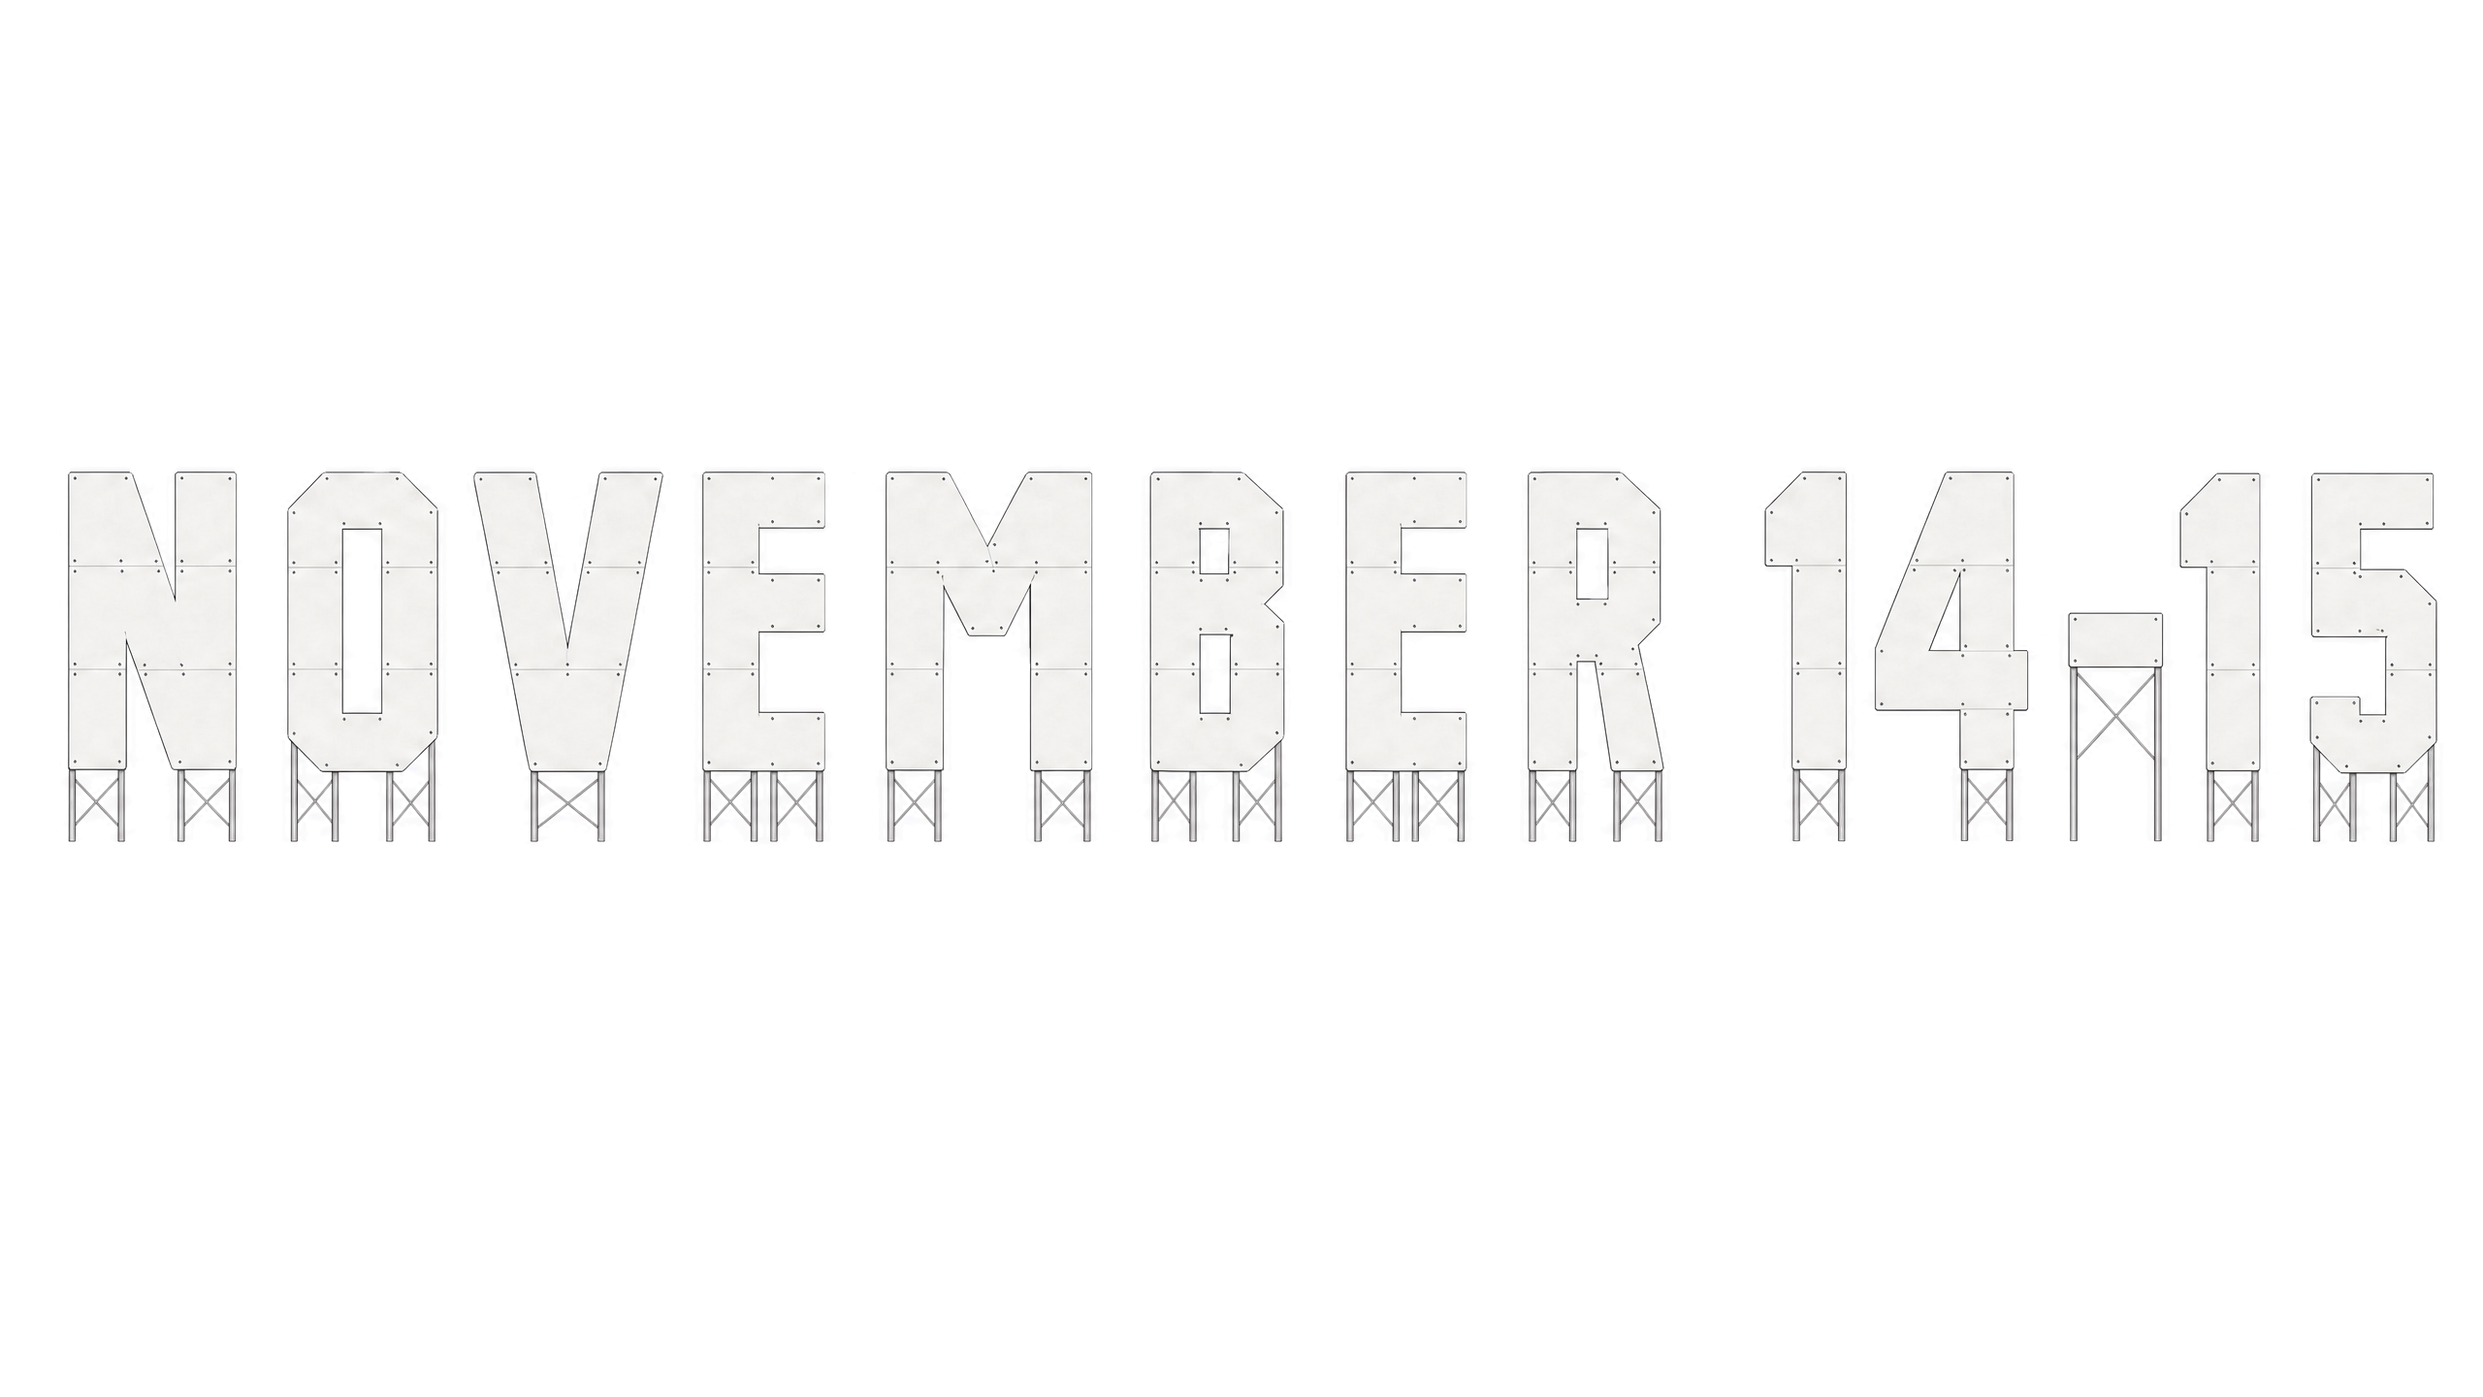
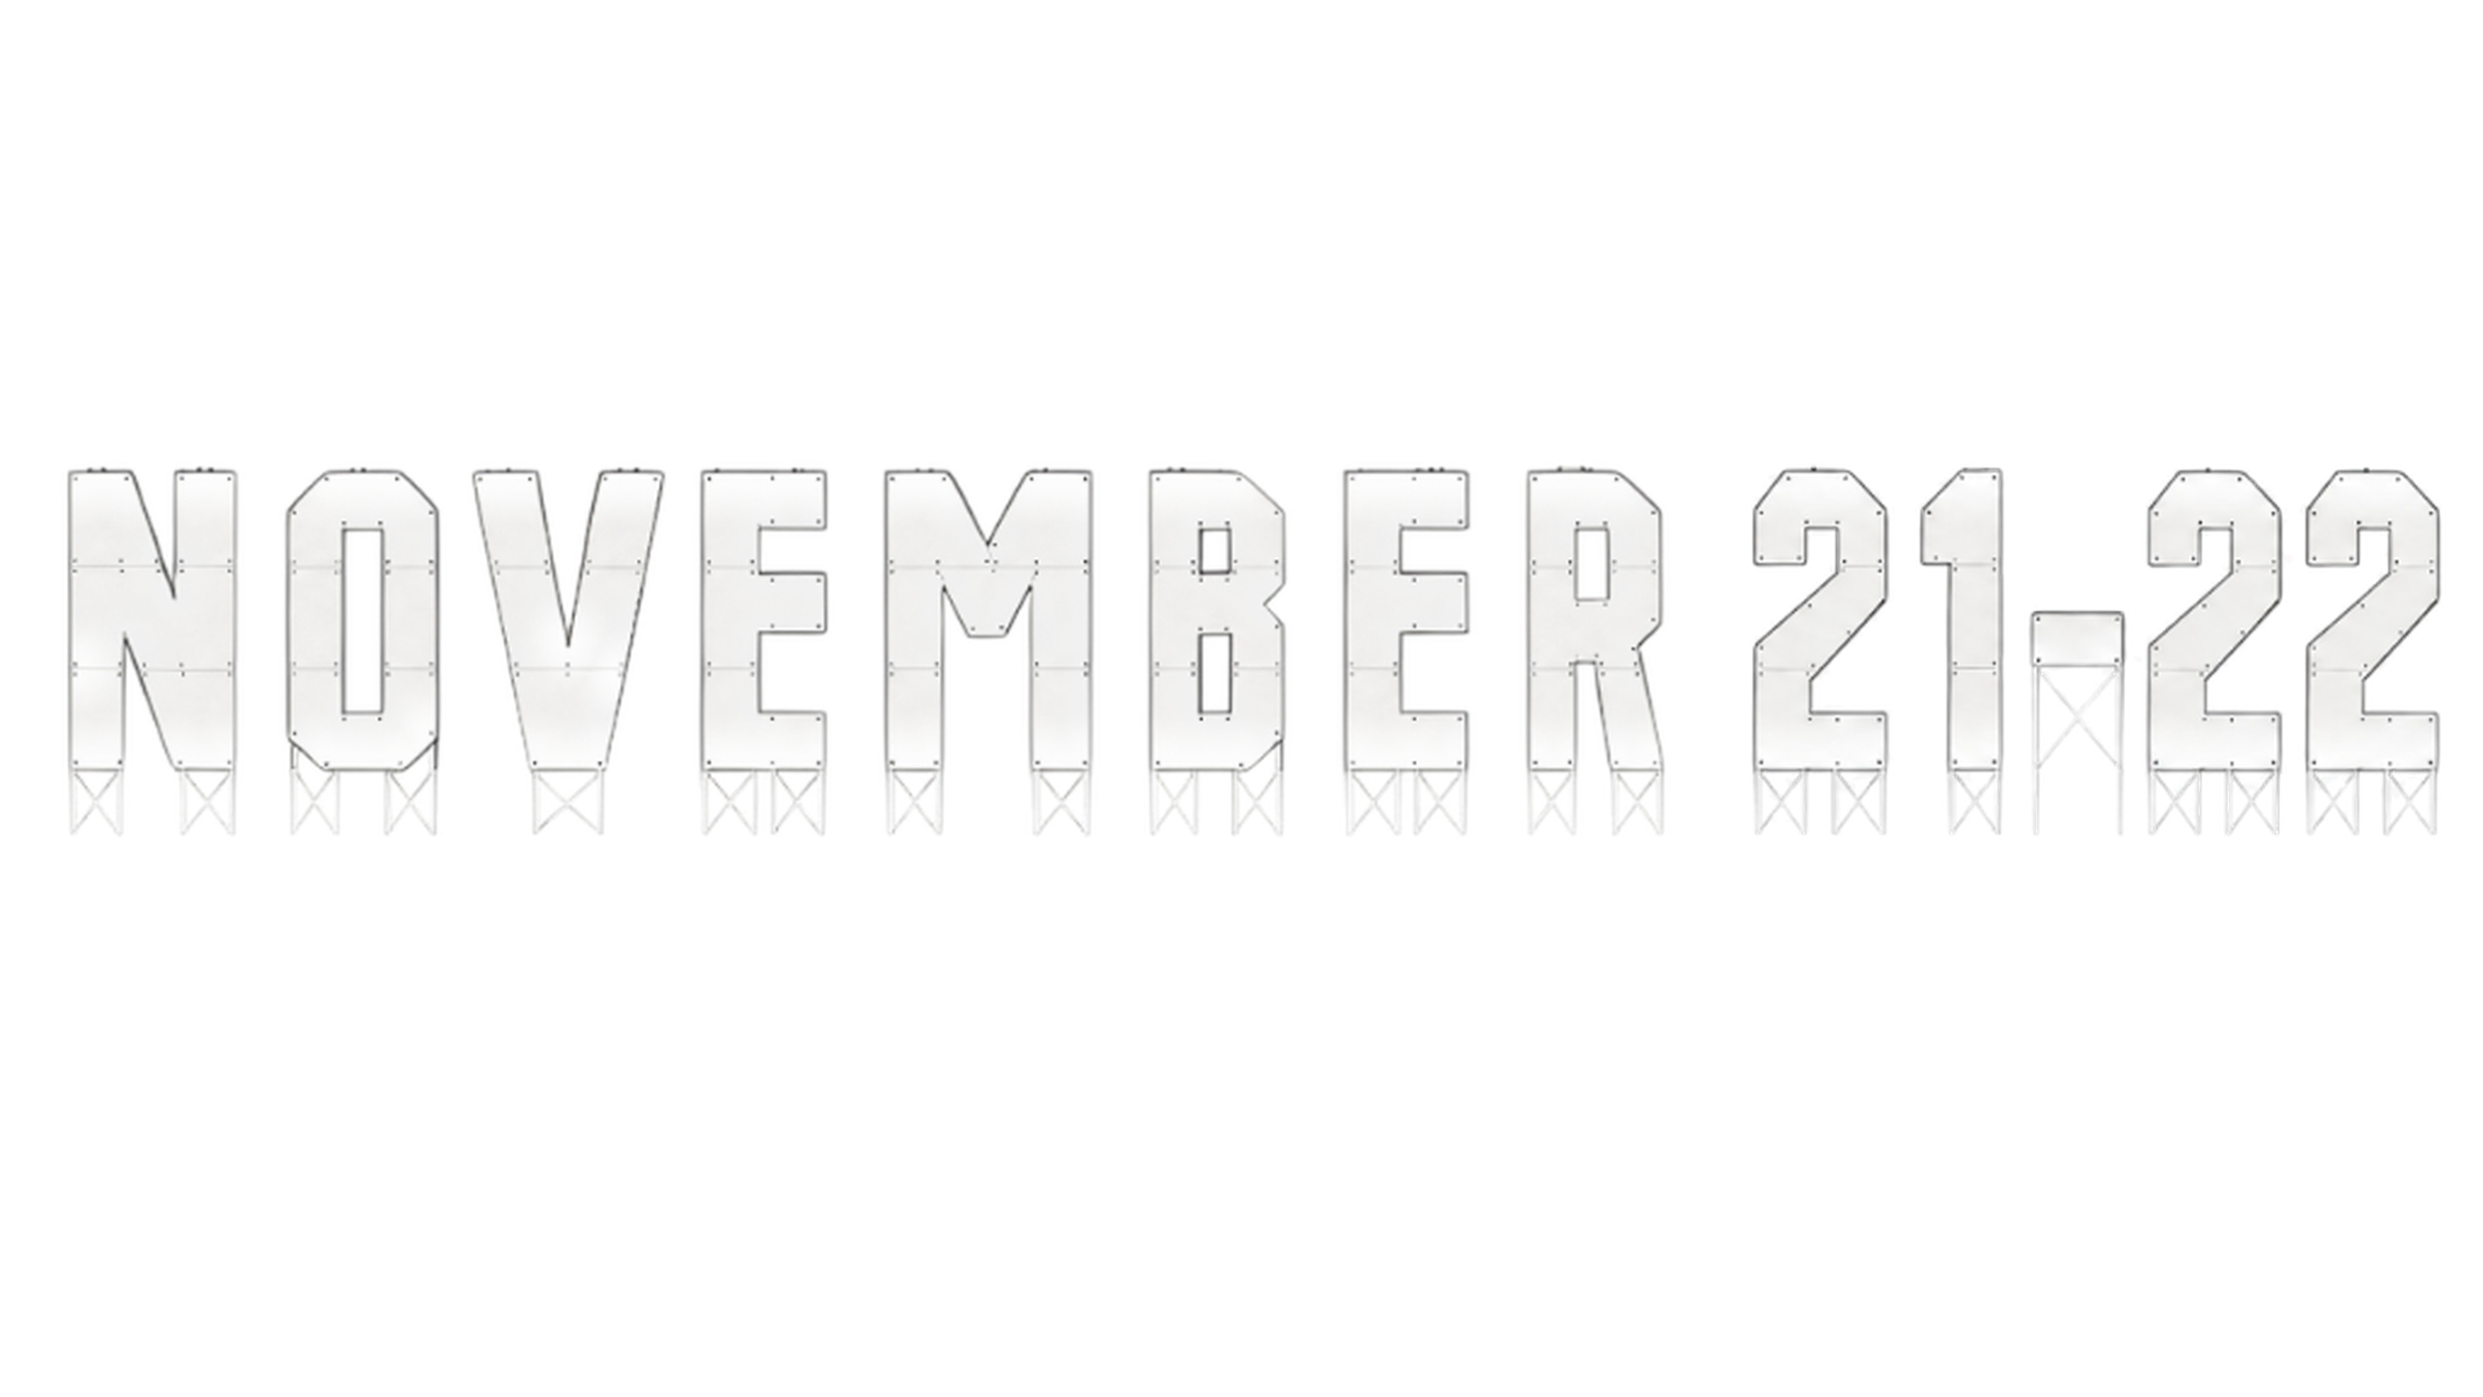
feat: reschedule event to Nov 21-22, update date sign, and add new sponsors

diff --git a/src/app/sponsor/page.tsx b/src/app/sponsor/page.tsx
@@ -25,6 +25,9 @@ const AWS_LOGO = "/aws-white.svg";
 const GOOGLE_LOGO = "/google.svg";
 const BOOTDEV_LOGO = "/bootdev.png";
 const ELEVENLABS_LOGO = "/elevenlabs-logo-white.png";
+const CELSIUS_LOGO = "/celsius.svg";
+const LOVABLE_LOGO = "/lovable.svg";
+const PCBWAY_LOGO = "/pcbway.svg";
 
 const ROADTRIP_SPONSORS = [
   {
@@ -52,6 +55,27 @@ const ROADTRIP_SPONSORS = [
     name: "ElevenLabs",
     src: ELEVENLABS_LOGO,
     width: 240,
+    height: 60,
+    className: "max-h-9 sm:max-h-12 w-auto",
+  },
+  {
+    name: "Celsius",
+    src: CELSIUS_LOGO,
+    width: 220,
+    height: 75,
+    className: "max-h-10 sm:max-h-14 w-auto",
+  },
+  {
+    name: "Lovable",
+    src: LOVABLE_LOGO,
+    width: 220,
+    height: 40,
+    className: "max-h-8 sm:max-h-11 w-auto",
+  },
+  {
+    name: "PCBWay",
+    src: PCBWAY_LOGO,
+    width: 220,
     height: 60,
     className: "max-h-9 sm:max-h-12 w-auto",
   },
@@ -114,7 +138,7 @@ const SPONSOR_BENEFITS = [
 const FAQS = [
   {
     q: "Where and when is HackCC 2026 taking place?",
-    a: "HackCC 2026 takes place on November 14–15, 2026 at Orange Coast College (OCC) in Costa Mesa, California! It is a two-day, non-overnight hackathon running during the daytime on Saturday and Sunday, allowing sponsors, mentors, and hackers to return refreshed for day two judging and final ceremonies.",
+    a: "HackCC 2026 takes place on November 21–22, 2026 at Orange Coast College (OCC) in Costa Mesa, California! It is a two-day, non-overnight hackathon running during the daytime on Saturday and Sunday, allowing sponsors, mentors, and hackers to return refreshed for day two judging and final ceremonies.",
   },
   {
     q: "Why sponsor HackCC instead of a four-year university hackathon?",
@@ -246,13 +270,13 @@ export default function SponsorPage() {
           <div className="mt-5 inline-flex flex-wrap items-center justify-center gap-2 sm:gap-2.5 px-4 py-1.5 rounded-full bg-slate-900/80 border border-white/20 text-xs sm:text-sm font-mono text-amber-300 shadow-sm backdrop-blur-sm">
             <span className="font-bold text-white">Orange Coast College · Costa Mesa, CA</span>
             <span className="text-white/40 hidden xs:inline">•</span>
-            <span>Nov 14–15, 2026</span>
+            <span>Nov 21–22, 2026</span>
           </div>
 
           {/* Unboxed Narrative */}
           <p className="mt-6 text-slate-200 text-base sm:text-lg md:text-xl max-w-3xl mx-auto leading-relaxed font-sans">
             HackCC is California&apos;s premier hackathon exclusively dedicated to empowering community college students.
-            Taking place November 14–15, 2026 at Orange Coast College in Costa Mesa, partner with us to mentor, recruit, and inspire 300+ passionate student developers, designers, and creators from 23 colleges across California.
+            Taking place November 21–22, 2026 at Orange Coast College in Costa Mesa, partner with us to mentor, recruit, and inspire 300+ passionate student developers, designers, and creators from 23 colleges across California.
           </p>
 
           {/* Clean, Unboxed Direct Action Controls - No floating glass box */}
@@ -355,7 +379,7 @@ export default function SponsorPage() {
                 Weekend Sprint
               </p>
               <p className="text-xs font-semibold text-slate-400">
-                Nov 14–15, 2026
+                Nov 21–22, 2026
               </p>
             </div>
 
@@ -421,11 +445,11 @@ export default function SponsorPage() {
           </h2>
 
           <div className="w-full max-w-5xl rounded-3xl border border-white/15 bg-slate-950/65 p-6 sm:p-10 lg:p-12 shadow-[0_24px_60px_rgba(0,0,0,0.55)] backdrop-blur-md">
-            <div className="grid grid-cols-2 lg:grid-cols-4 gap-6 sm:gap-8 lg:gap-10 items-center justify-items-center">
+            <div className="flex flex-wrap items-center justify-center gap-6 sm:gap-8 lg:gap-10">
               {ROADTRIP_SPONSORS.map((sponsor) => (
                 <div
                   key={sponsor.name}
-                  className="flex h-20 sm:h-24 w-full items-center justify-center p-2 sm:p-3 select-none"
+                  className="flex h-20 sm:h-24 w-[42%] sm:w-[28%] lg:w-[21%] min-w-[130px] items-center justify-center p-2 sm:p-3 select-none"
                 >
                   <Image
                     src={sponsor.src}

diff --git a/src/data/faq.ts b/src/data/faq.ts
@@ -15,7 +15,7 @@ export const FAQS: FAQItem[] = [
     question: "When can I apply?",
     badge: "Applications Open",
     spokenAnswer:
-      "Applications are officially open! You can [apply now](/apply) directly through our hacker application portal. We review applications on a rolling basis, so jumping in early gives you the best shot at securing your seat on the route.",
+      "Applications are officially open! You can [apply now](/apply) directly through our hacker application portal. Registration will remain open until the hackathon is officially underway on Saturday, November 21. We review applications on a rolling basis, so jumping in early gives you the best shot at securing your seat on the route.",
     link: {
       text: "Apply Now",
       href: "/apply",
@@ -26,14 +26,14 @@ export const FAQS: FAQItem[] = [
     question: "Where and when is HackCC 2026?",
     badge: "Venue & Dates",
     spokenAnswer:
-      "HackCC 2026 takes place on November 14–15, 2026 at Orange Coast College (OCC) in Costa Mesa, California! The campus is located in Orange County with convenient freeway access and nearby public transit.",
+      "HackCC 2026 takes place on November 21–22, 2026 at Orange Coast College (OCC) in Costa Mesa, California! The campus is located in Orange County with convenient freeway access and nearby public transit.",
   },
   {
     id: "overnight",
     question: "Is HackCC an overnight hackathon?",
     badge: "Schedule & Format",
     spokenAnswer:
-      "HackCC is a two-day, non-overnight hackathon. Hacking runs during the day on both Saturday, November 14 and Sunday, November 15. The venue closes Saturday night so hackers can rest, recharge, and return refreshed Sunday morning for final builds and project demos.",
+      "HackCC is a two-day, non-overnight hackathon. Hacking runs during the day on both Saturday, November 21 and Sunday, November 22. The venue closes Saturday night so hackers can rest, recharge, and return refreshed Sunday morning for final builds and project demos.",
   },
   {
     id: "what-is-hackathon",

diff --git a/src/components/roadtrip/Zone3Sponsors.tsx b/src/components/roadtrip/Zone3Sponsors.tsx
@@ -9,6 +9,9 @@ const AWS_WHITE_LOGO = "/aws-white.svg";
 const GOOGLE_LOGO = "/google.svg";
 const BOOTDEV_LOGO = "/bootdev.png";
 const ELEVENLABS_LOGO = "/elevenlabs-logo-white.png";
+const CELSIUS_LOGO = "/celsius.svg";
+const LOVABLE_LOGO = "/lovable.svg";
+const PCBWAY_LOGO = "/pcbway.svg";
 
 const sponsors = [
   {
@@ -36,6 +39,27 @@ const sponsors = [
     name: "ElevenLabs",
     src: ELEVENLABS_LOGO,
     width: 240,
+    height: 60,
+    className: "max-h-9 sm:max-h-12 w-auto",
+  },
+  {
+    name: "Celsius",
+    src: CELSIUS_LOGO,
+    width: 220,
+    height: 75,
+    className: "max-h-10 sm:max-h-14 w-auto",
+  },
+  {
+    name: "Lovable",
+    src: LOVABLE_LOGO,
+    width: 220,
+    height: 40,
+    className: "max-h-8 sm:max-h-11 w-auto",
+  },
+  {
+    name: "PCBWay",
+    src: PCBWAY_LOGO,
+    width: 220,
     height: 60,
     className: "max-h-9 sm:max-h-12 w-auto",
   },
@@ -83,11 +107,11 @@ export default function Zone3Sponsors() {
 
         {/* Cal Hacks / HackMIT Style: Single Unified Frosted-Glass Sponsor Pavilion */}
         <div className="w-full max-w-5xl rounded-3xl border border-white/15 bg-slate-950/65 p-6 sm:p-10 lg:p-12 shadow-[0_24px_60px_rgba(0,0,0,0.55)] backdrop-blur-md select-none">
-          <div className="grid grid-cols-2 lg:grid-cols-4 gap-6 sm:gap-8 lg:gap-10 items-center justify-items-center">
+          <div className="flex flex-wrap items-center justify-center gap-6 sm:gap-8 lg:gap-10">
             {sponsors.map((sponsor) => (
               <div
                 key={sponsor.name}
-                className="flex h-20 sm:h-24 w-full items-center justify-center p-2 sm:p-3 select-none"
+                className="flex h-20 sm:h-24 w-[42%] sm:w-[28%] lg:w-[21%] min-w-[130px] items-center justify-center p-2 sm:p-3 select-none"
               >
                 <Image
                   src={sponsor.src}

diff --git a/src/components/roadtrip/Zone2About.tsx b/src/components/roadtrip/Zone2About.tsx
@@ -9,7 +9,7 @@ const stats = [
   { value: "300+", unit: "", label: "Participants", sublabel: "Across California" },
   { value: "$20K+", unit: "", label: "In Prizes", sublabel: "" },
   { value: "23", unit: "", label: "Colleges", sublabel: "From NorCal to SoCal" },
-  { value: "2", unit: "DAYS", label: "Weekend Sprint", sublabel: "Nov 14–15, 2026" },
+  { value: "2", unit: "DAYS", label: "Weekend Sprint", sublabel: "Nov 21–22, 2026" },
 ];
 
 const pillars = [
@@ -65,7 +65,7 @@ export default function Zone2About() {
             ABOUT HACKCC
           </h2>
           <p className="mt-3 text-white text-base sm:text-lg lg:text-xl font-sans font-medium max-w-2xl leading-relaxed [text-shadow:_0_2px_8px_rgba(0,0,0,1),_0_4px_16px_rgba(0,0,0,0.85)]">
-            California&apos;s largest community college hackathon. Two days to build, learn, and launch alongside mentors, alumni, and top tech partners at Orange Coast College on November 14–15, 2026.
+            California&apos;s largest community college hackathon. Two days to build, learn, and launch alongside mentors, alumni, and top tech partners at Orange Coast College on November 21–22, 2026.
           </p>
         </div>
 

diff --git a/src/components/roadtrip/Zone4FAQQuotes.tsx b/src/components/roadtrip/Zone4FAQQuotes.tsx
@@ -168,7 +168,7 @@ export default function Zone4FAQQuotes() {
                       Orange Coast College · Costa Mesa
                     </h3>
                     <p className="text-[10px] sm:text-xs text-slate-600 font-sans mt-0.5 hidden xs:block">
-                      Field notes for your Nov 14–15 weekend hackathon
+                      Field notes for your Nov 21–22 weekend hackathon
                     </p>
                   </div>
                 </div>
@@ -191,7 +191,7 @@ export default function Zone4FAQQuotes() {
                         PCH · CA
                       </span>
                       <span className="font-mono font-bold text-[7px] sm:text-[8px] uppercase tracking-wider text-red-700 my-0.5">
-                        NOV 14 2026
+                        NOV 21 2026
                       </span>
                       <span className="font-mono text-[7px] tracking-tight uppercase text-red-600/80">
                         ORANGE COAST

diff --git a/src/components/roadtrip/HeroBlimp.tsx b/src/components/roadtrip/HeroBlimp.tsx
@@ -176,7 +176,7 @@ export default function HeroBlimp({ className = "" }: HeroBlimpProps) {
           ORANGE COAST COLLEGE
         </text>
 
-        {/* Subtitle: Costa Mesa · Nov 14–15 */}
+        {/* Subtitle: Costa Mesa · Nov 21–22 */}
         <text
           x="276"
           y="81.5"
@@ -187,7 +187,7 @@ export default function HeroBlimp({ className = "" }: HeroBlimpProps) {
           fontFamily="system-ui, -apple-system, sans-serif"
           letterSpacing="1.2"
         >
-          COSTA MESA · NOV 14–15
+          COSTA MESA · NOV 21–22
         </text>
 
         {/* Corner Rivets */}

diff --git a/src/app/apply/organizer/page.tsx b/src/app/apply/organizer/page.tsx
@@ -286,7 +286,7 @@ export default function OrganizerApplyPage() {
           <div className="mt-5 inline-flex flex-wrap items-center justify-center gap-2 sm:gap-2.5 px-4 py-1.5 rounded-full bg-slate-900/80 border border-white/20 text-xs sm:text-sm font-mono text-amber-300 shadow-sm backdrop-blur-sm">
             <span className="font-bold text-white">Orange Coast College · Costa Mesa, CA</span>
             <span className="text-white/40 hidden xs:inline">•</span>
-            <span>Nov 14–15, 2026</span>
+            <span>Nov 21–22, 2026</span>
           </div>
 
           {/* Unboxed Narrative */}

diff --git a/src/components/roadtrip/Zone1Hero.tsx b/src/components/roadtrip/Zone1Hero.tsx
@@ -153,11 +153,11 @@ export default function Zone1Hero() {
             />
           </div>
 
-          {/* Date Sign (November 14-15) directly underneath */}
+          {/* Date Sign (November 21-22) directly underneath */}
           <div className="w-3/4 sm:w-[70%] -mt-[31%] sm:-mt-[31%]">
             <Image
               src={DATE_SIGN}
-              alt="HackCC Event Dates: November 14-15"
+              alt="HackCC Event Dates: November 21-22"
               width={2560}
               height={1440}
               className="w-full h-auto object-contain mx-auto pointer-events-none select-none"

diff --git a/src/app/apply/RegistrationReceivedCard.tsx b/src/app/apply/RegistrationReceivedCard.tsx
@@ -33,7 +33,7 @@ export function RegistrationReceivedCard({ email }: RegistrationReceivedCardProp
         </li>
         <li className="flex items-center gap-3">
           <Calendar className="w-4 h-4 text-amber-400 shrink-0" />
-          <span>Nov 14–15, 2026 • Orange Coast College</span>
+          <span>Nov 21–22, 2026 • Orange Coast College</span>
         </li>
         <li className="flex items-center gap-3">
           <MapPin className="w-4 h-4 text-amber-400 shrink-0" />
